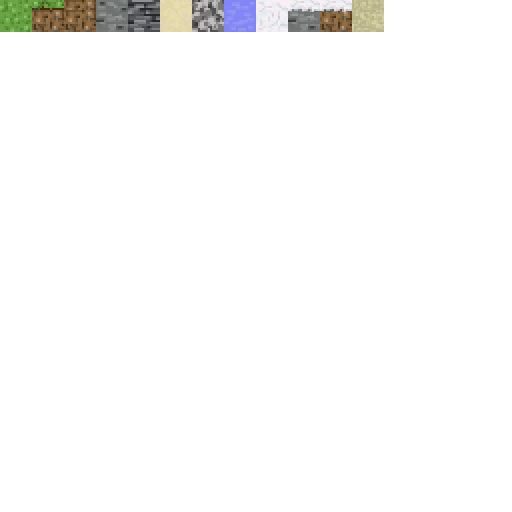
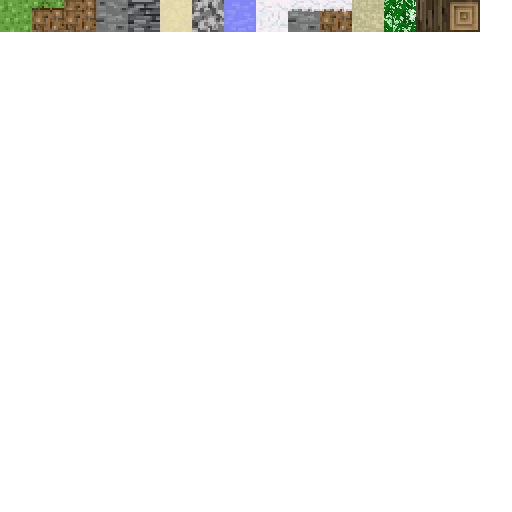
wip: trees

Changed region(s): [[0.75, 0.0, 0.9375, 0.0625]]

diff --git a/src/chunk.cpp b/src/chunk.cpp
@@ -22,6 +22,13 @@ void Chunk::setBlock(int x, int y, int z, BlockType type) {
   blocks[getIndex(x, y, z)] = type;
 }
 
+void Chunk::generateTree(int x, int y, int z) {
+  int h = (rand() % 5) + 1;
+  for (int j = 1; j < h; j++) {
+    setBlock(x, y + j, z, BlockType::TREE);
+  }
+}
+
 void Chunk::generateChunk() {
   const int SEA_LEVEL = 48;  // water below y
   const int SNOW_LEVEL = 75; // snow above y
@@ -71,23 +78,26 @@ void Chunk::generateChunk() {
       // at 0.45, you get a nice smooth transition into mountains.
       double mountain_factor = glm::smoothstep(0.45, 0.85, biome_noise);
 
-      int perlin_height = static_cast<int>(
-          hNoise * 30            // base hills
-          + mountain_factor * 80 // extra mountains only where biome is high
-      ) + AMP;
+      int perlin_height =
+          static_cast<int>(
+              hNoise * 30            // base hills
+              + mountain_factor * 80 // extra mountains only where biome is high
+              ) +
+          AMP;
 
       for (int y = 0; y < perlin_height; y++) {
-      const double stone_noise = glm::perlin(glm::vec3(
-          (world_x * W + x) * 0.55, y * 0.25, (world_z * L + z) * 0.25));
-      const double bedrock_noise = glm::perlin(glm::vec3(
-          (world_x * W + x) * 0.42, y * 0.02, (world_z * L + z) * 0.42));
+
+        const double stone_noise = glm::perlin(glm::vec3(
+            (world_x * W + x) * 0.55, y * 0.25, (world_z * L + z) * 0.25));
+        const double bedrock_noise = glm::perlin(glm::vec3(
+            (world_x * W + x) * 0.42, y * 0.02, (world_z * L + z) * 0.42));
+
         BlockType type = BlockType::AIR;
+
         // Figure out top block
         if (y == perlin_height - 1) {
-          double snow_noise = glm::perlin(glm::vec2(
-                (world_x * W + x) * 0.02,
-                (world_z * L + z) * 0.02
-                ));
+          double snow_noise = glm::perlin(
+              glm::vec2((world_x * W + x) * 0.02, (world_z * L + z) * 0.02));
           int block_rand = (rand() % 100) + 1;
           if (perlin_height > SNOW_LEVEL + snow_noise * 5.0) {
             if (block_rand <= 95) {
@@ -98,7 +108,7 @@ void Chunk::generateChunk() {
               type = BlockType::SNOW_DIRT;
             }
           } else if (perlin_height > SNOW_LEVEL) {
-              type = BlockType::SNOW;
+            type = BlockType::SNOW;
           } else if (perlin_height <= SEA_LEVEL) {
             if (perlin_height < SEA_LEVEL - 5) {
               type = BlockType::SANDSTONE;
@@ -120,6 +130,9 @@ void Chunk::generateChunk() {
                   type = BlockType::STONE;
                 } else if (block_rand <= 90) {
                   type = BlockType::GRASS;
+                  if (block_rand <= 20) {
+                    generateTree(x, y, z);
+                  }
                 } else {
                   type = BlockType::DIRT;
                 }
@@ -133,9 +146,9 @@ void Chunk::generateChunk() {
         } else {
           type = BlockType::DIRT;
         }
+
         setBlock(x, y, z, type);
       }
-      
 
       // Fill water pass
       for (int y = perlin_height; y < SEA_LEVEL; y++) {

diff --git a/inc/block_type.hpp b/inc/block_type.hpp
@@ -5,21 +5,17 @@
 
 enum class BlockType : uint8_t {
   AIR = 0,
-  DIRT,
-  STONE,
-  GRASS,
-  WATER,
   BEDROCK,
-  SAND,
   COBBLESTONE,
-  SNOW,
-  SNOW_STONE,
-  SNOW_DIRT,
+  DIRT,
+  GRASS,
+  SAND,
   SANDSTONE,
-};
-
-struct BlockInfo {
-  bool solid;       // Blocks light & movement
-  bool transparent; // Transparent block (separate pass)
-  glm::vec2 uv;     // Texture atlas coordinates
+  SNOW,
+  SNOW_DIRT,
+  SNOW_STONE,
+  STONE,
+  TREE,
+  TREE_LEAF,
+  WATER,
 };

diff --git a/src/block_data_manager.cpp b/src/block_data_manager.cpp
@@ -67,6 +67,12 @@ glm::vec2 BlockDataManager::getUV(BlockType type, BlockFace face) const {
   case BlockType::SANDSTONE:
     type_str = "sandstone";
     break;
+  case BlockType::TREE_LEAF:
+    type_str = "tree-leaf";
+    break;
+  case BlockType::TREE:
+    type_str = "tree";
+    break;
   default:
     type_str = "dirt";
     break;

diff --git a/inc/chunk.hpp b/inc/chunk.hpp
@@ -20,6 +20,7 @@ public:
   void setBlock(int x, int y, int z, BlockType type);
 
   void generateChunk();
+  void generateTree(int x, int y, int z);
 
   int32_t world_x, world_z;
   Mesh opaqueMesh, transparentMesh;
